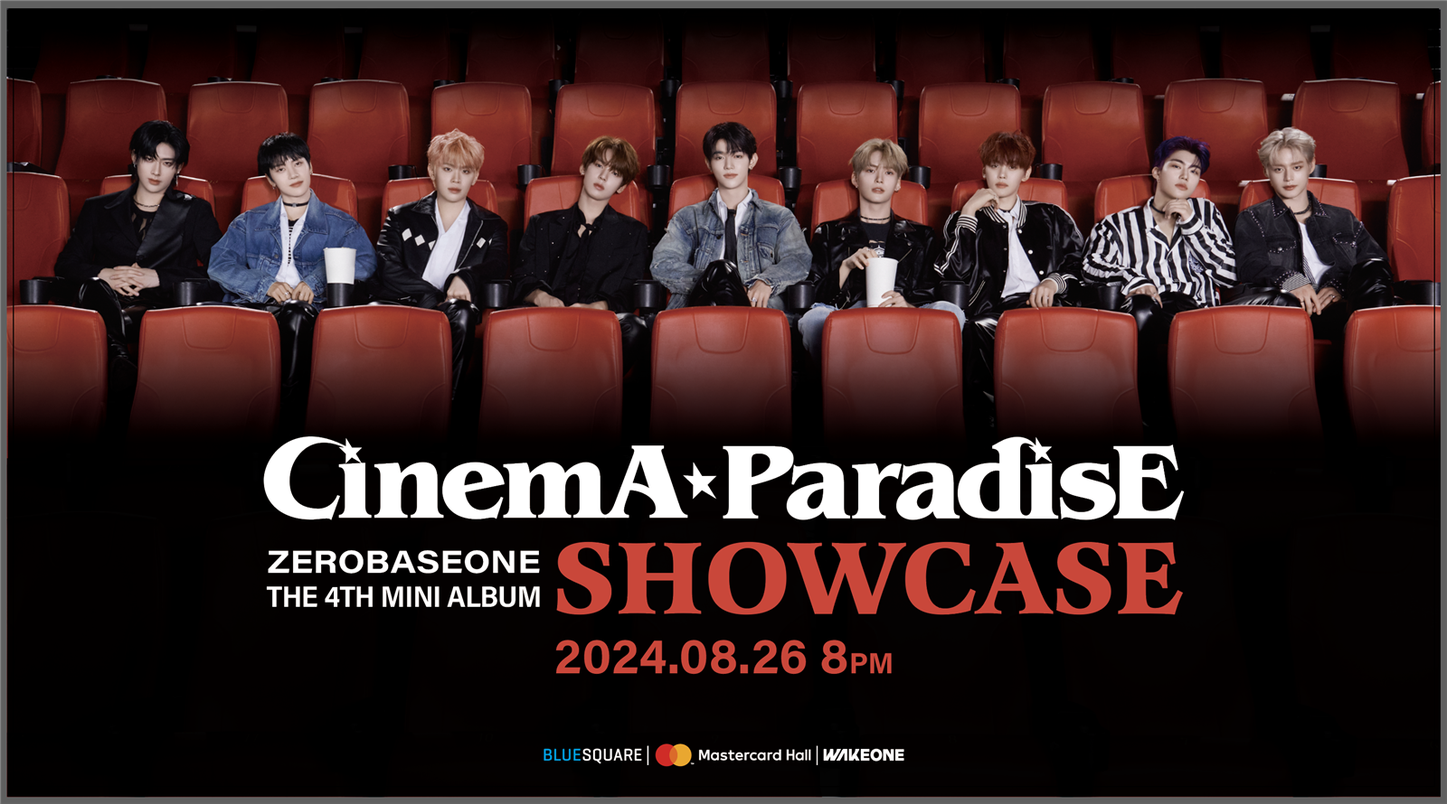
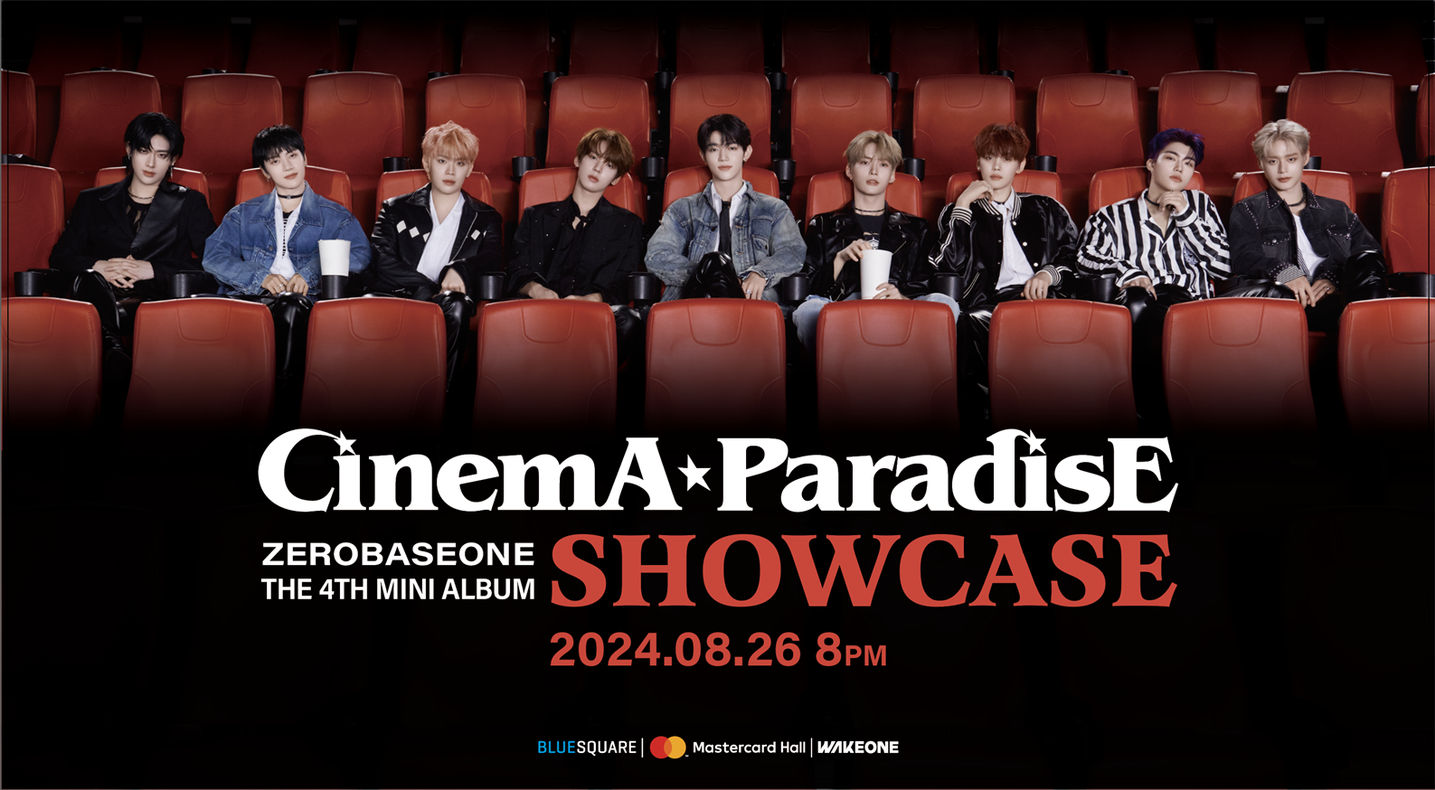
피드백 반영: 표지 교체, 현수막 테두리 제거, 전후비교 7 정합, 영상촬영 루프 플레이어
- 표지를 흰 로고 타입 PNG로 교체 (투명 배경, 어두운 히어로 위에 표시)
- ZB1 쇼케이스 현수막 2-4의 회색 테두리 크롭 제거
- Before/After 7: 보정후와 같은 영역으로 보정전 크롭 (NCC 정합, left 6%, top 0, 94%)
- Photo ZB1 영상촬영: 링크 제거, GIF 스타일 자동 루프 플레이어로 교체

diff --git a/js/manifest.js b/js/manifest.js
@@ -1,1 +1,1 @@
-const MANIFEST = [{"p":"표지(디자인).jpg","w":1600,"h":1178},{"p":"표지(포토).jpg","w":1600,"h":1178},{"p":"Photo/보정 전_후/1 보정전.jpg","w":1600,"h":1067},{"p":"Photo/보정 전_후/1 보정후.jpg","w":1600,"h":1067},{"p":"Photo/보정 전_후/10 보정전.jpg","w":1600,"h":900},{"p":"Photo/보정 전_후/10 보정후.jpg","w":1600,"h":900},{"p":"Photo/보정 전_후/11 보정전.jpg","w":1600,"h":900},{"p":"Photo/보정 전_후/11 보정후.jpg","w":1600,"h":900},{"p":"Photo/보정 전_후/2 보정전.jpg","w":1600,"h":1067},{"p":"Photo/보정 전_후/2 보정후.jpg","w":1600,"h":1067},{"p":"Photo/보정 전_후/3 보정전.jpg","w":1600,"h":1067},{"p":"Photo/보정 전_후/3 보정후.jpg","w":1600,"h":1067},{"p":"Photo/보정 전_후/4 보정전.jpg","w":1600,"h":1067},{"p":"Photo/보정 전_후/4 보정후.jpg","w":1600,"h":1067},{"p":"Photo/보정 전_후/5 보정전.jpg","w":1600,"h":1067},{"p":"Photo/보정 전_후/5 보정후.jpg","w":1600,"h":1067},{"p":"Photo/보정 전_후/6 보정전.jpg","w":1600,"h":1067},{"p":"Photo/보정 전_후/6 보정후.jpg","w":1600,"h":1067},{"p":"Photo/보정 전_후/7 보정전.jpg","w":1600,"h":2400},{"p":"Photo/보정 전_후/7 보정후.jpg","w":1600,"h":2400},{"p":"Photo/보정 전_후/8 보정전.jpg","w":1600,"h":2400},{"p":"Photo/보정 전_후/8 보정후.jpg","w":1600,"h":2400},{"p":"Photo/보정 전_후/9 보정전.jpg","w":1600,"h":1067},{"p":"Photo/보정 전_후/9 보정후.jpg","w":1600,"h":1067},{"p":"Photo/사진 보정/ZB1/IMG_2732.jpg","w":1279,"h":1599},{"p":"Photo/사진 보정/ZB1/IMG_2735.jpg","w":1280,"h":1600},{"p":"Photo/사진 보정/ZB1/IMG_2736.jpg","w":1279,"h":1599},{"p":"Photo/사진 보정/ZB1/KakaoTalk_Photo_2024-07-16-21-44-44-001.jpg","w":1080,"h":1440},{"p":"Photo/사진 보정/ZB1/KakaoTalk_Photo_2024-07-16-21-44-45-003.jpg","w":1080,"h":1440},{"p":"Photo/사진 보정/ZB1/KakaoTalk_Photo_2024-07-16-22-18-38-001.jpg","w":1600,"h":1200},{"p":"Photo/사진 보정/ZB1/KakaoTalk_Photo_2024-09-15-16-23-57-004.jpg","w":1280,"h":1707},{"p":"Photo/사진 보정/ZB1/KakaoTalk_Photo_2024-09-15-16-23-58-011.jpg","w":1280,"h":1707},{"p":"Photo/사진 보정/ZB1/KakaoTalk_Photo_2024-09-20-19-52-52-001.jpg","w":1600,"h":2133},{"p":"Photo/사진 보정/ZB1/KakaoTalk_Photo_2024-09-21-23-08-23-004.jpg","w":1080,"h":1440},{"p":"Photo/사진 보정/ZB1/KakaoTalk_Photo_2024-09-22-22-04-35-001.jpg","w":1058,"h":1411},{"p":"Photo/사진 보정/ZB1/KakaoTalk_Photo_2024-10-12-23-06-18-002.jpg","w":960,"h":1280},{"p":"Photo/사진 보정/ZB1/KakaoTalk_Photo_2025-04-19-01-57-40 001.jpg","w":1179,"h":1453},{"p":"Photo/사진 보정/ZB1/KakaoTalk_Photo_2025-04-19-01-57-41 002.jpg","w":1179,"h":1469},{"p":"Photo/사진 보정/ZB1/KakaoTalk_Photo_2025-04-19-01-57-41 003.jpg","w":1179,"h":1469},{"p":"Photo/사진 보정/ZB1/KakaoTalk_Photo_2025-04-19-01-57-41 004.jpg","w":1179,"h":1459},{"p":"Photo/사진 보정/ZB1/KakaoTalk_Photo_2025-04-19-01-57-43 013.jpg","w":1163,"h":1459},{"p":"Photo/사진 보정/ZB1/KakaoTalk_Photo_2025-04-19-01-57-43 014.jpg","w":1179,"h":1465},{"p":"Photo/사진 보정/ZB1/KakaoTalk_Photo_2025-04-19-01-57-43 015.jpg","w":1179,"h":1459},{"p":"Photo/사진 보정/시네마/[시네마] 모비딕 자켓1.jpg","w":1600,"h":1066},{"p":"Photo/사진 보정/시네마/[시네마] 모비딕 자켓2.jpg","w":1600,"h":1066},{"p":"Photo/사진 보정/시네마/[시네마] 모비딕 자켓3.jpg","w":1600,"h":1066},{"p":"Photo/사진 보정/시네마/[시네마] 모비딕 자켓4.jpg","w":1600,"h":1066},{"p":"Photo/사진 보정/시네마/[시네마] 모비딕 자켓5.jpg","w":1600,"h":1066},{"p":"Photo/사진 보정/시네마/[시네마] 청춘콘썰트1.jpg","w":1334,"h":2000},{"p":"Photo/사진 보정/시네마/[시네마] 청춘콘썰트2.jpg","w":1600,"h":1066},{"p":"Photo/사진 보정/시네마/[시네마] 청춘콘썰트3.jpg","w":1600,"h":1066},{"p":"Photo/사진 보정/시네마/[시네마] 청춘콘썰트4.jpg","w":1334,"h":2000},{"p":"Photo/사진 보정/시네마/[시네마] 청춘콘썰트5.jpg","w":1600,"h":1066},{"p":"Photo/사진 보정/시네마/[시네마] 청춘콘썰트6.jpg","w":1600,"h":1067},{"p":"Photo/촬영 및 보정/ZB1/GoodsoBad MV 비하인드 1.jpg","w":1179,"h":1510},{"p":"Photo/촬영 및 보정/ZB1/GoodsoBad MV 비하인드 2.jpg","w":1179,"h":1513},{"p":"Photo/촬영 및 보정/ZB1/GoodsoBad MV 비하인드 3.jpg","w":1179,"h":1482},{"p":"Photo/촬영 및 보정/ZB1/GoodsoBad MV 비하인드 4.jpg","w":1179,"h":1459},{"p":"Photo/촬영 및 보정/ZB1/마담피가로 화보 비하인드 1.jpg","w":1179,"h":1463},{"p":"Photo/촬영 및 보정/ZB1/마담피가로 화보 비하인드 2.jpg","w":1179,"h":1456},{"p":"Photo/촬영 및 보정/ZB1/마담피가로 화보 비하인드 3.jpg","w":1179,"h":1459},{"p":"Photo/촬영 및 보정/ZB1/마담피가로 화보 비하인드 4.jpg","w":1179,"h":1466},{"p":"Photo/촬영 및 보정/ZB1/영상 촬영/ZEROBASEONE 'GoodsoBad' MV 비하인드 1.jpg","w":1179,"h":1965},{"p":"Photo/촬영 및 보정/ZB1/영상 촬영/ZEROBASEONE 'GoodsoBad' MV 비하인드 2.jpg","w":1179,"h":1965},{"p":"Photo/촬영 및 보정/ZB1/영상 촬영/ZEROBASEONE 'GoodsoBad' MV 비하인드 3.jpg","w":1179,"h":1965},{"p":"Photo/촬영 및 보정/ZB1/영상 촬영/ZEROBASEONE 'GoodsoBad' MV 비하인드 4.jpg","w":1179,"h":1965},{"p":"Photo/촬영 및 보정/ZB1/영상 촬영/ZEROBASEONE 'GoodsoBad' MV 비하인드 5.jpg","w":1179,"h":1965},{"p":"Photo/촬영 및 보정/ZB1/영상 촬영/ZEROBASEONE 'GoodsoBad' MV 비하인드 6.jpg","w":1179,"h":1965},{"p":"Photo/촬영 및 보정/ZB1/영상 촬영/ZEROBASEONE 'GoodsoBad' MV 비하인드 7.jpg","w":1179,"h":2096},{"p":"Photo/촬영 및 보정/ZB1/영상 촬영/ZEROBASEONE 'GoodsoBad' MV 비하인드 8.jpg","w":1179,"h":2096},{"p":"Photo/촬영 및 보정/ZB1/영상 촬영/ZEROBASEONE 'GoodsoBad' MV 비하인드 9.jpg","w":1179,"h":2096},{"p":"Photo/촬영 및 보정/ZB1/영상 촬영/ZEROBASEONE 'GoodsoBad' MV 비하인드 10.jpg","w":1179,"h":2096},{"p":"Photo/촬영 및 보정/ZB1/영상 촬영/ZEROBASEONE 'GoodsoBad' MV 비하인드 11.jpg","w":1179,"h":2096},{"p":"Photo/촬영 및 보정/ZB1/영상 촬영/ZEROBASEONE 'GoodsoBad' MV 비하인드 12.jpg","w":1179,"h":2096},{"p":"Photo/촬영 및 보정/ZB1/영상 촬영/ZEROBASEONE 'GoodsoBad' MV 비하인드 13.jpg","w":1179,"h":2096},{"p":"Photo/촬영 및 보정/유채훈-일몬도비하인드/무대 DSC05353 셀렉 보정본 copy.jpg","w":1600,"h":1066},{"p":"Photo/촬영 및 보정/유채훈-일몬도비하인드/무대 DSC05935 셀렉 보정본 copy.jpg","w":1600,"h":1066},{"p":"Photo/촬영 및 보정/유채훈-일몬도비하인드/무대 DSC06022 셀렉 보정본 copy.jpg","w":1600,"h":1066},{"p":"Photo/촬영 및 보정/유채훈-일몬도비하인드/무대 DSC06262 셀렉 보정본 copy.jpg","w":1334,"h":2000},{"p":"Photo/촬영 및 보정/유채훈-일몬도비하인드/무대 DSC06371 셀렉 보정본 copy.jpg","w":1600,"h":1066},{"p":"Photo/촬영 및 보정/유채훈-일몬도비하인드/무대 DSC06573 셀렉 보정본 copy.jpg","w":1600,"h":1066},{"p":"Photo/촬영 및 보정/유채훈-일몬도비하인드/무대 DSC06782 셀렉 보정본 copy.jpg","w":1600,"h":1066},{"p":"Photo/촬영 및 보정/유채훈-일몬도비하인드/무대 DSC06799 셀렉 보정본 copy.jpg","w":1600,"h":1066},{"p":"Photo/촬영 및 보정/유채훈-일몬도비하인드/무대 DSC07052 셀렉 보정본 copy.jpg","w":1600,"h":1066},{"p":"Photo/촬영 및 보정/유채훈-일몬도비하인드/무대 DSC07096 셀렉 보정본 copy.jpg","w":1600,"h":1066},{"p":"Photo/촬영 및 보정/유채훈-일몬도비하인드/무대 DSC07332 셀렉 보정본 copy.jpg","w":1600,"h":1066},{"p":"Photo/촬영 및 보정/유채훈-일몬도비하인드/무대 DSC07368 셀렉 보정본 copy.jpg","w":1333,"h":2000},{"p":"Photo/촬영 및 보정/유채훈-포디움콘서트/DSC01893-셀렉-보정본.jpg","w":1600,"h":1067},{"p":"Photo/촬영 및 보정/유채훈-포디움콘서트/DSC02064-셀렉-보정본.jpg","w":1600,"h":1067},{"p":"Photo/촬영 및 보정/유채훈-포디움콘서트/DSC02195-셀렉-보정본.jpg","w":1600,"h":1067},{"p":"Photo/촬영 및 보정/유채훈-포디움콘서트/DSC02247-셀렉-보정본.jpg","w":1600,"h":1067},{"p":"Photo/촬영 및 보정/유채훈-포디움콘서트/DSC02271-셀렉-보정본.jpg","w":1600,"h":1067},{"p":"Photo/촬영 및 보정/유채훈-포디움콘서트/DSC02328-셀렉-보정본.jpg","w":1600,"h":1067},{"p":"Photo/촬영 및 보정/유채훈-포디움콘서트/DSC02492-셀렉-보정본.jpg","w":1600,"h":1067},{"p":"Photo/촬영 및 보정/유채훈-포디움콘서트/DSC04307-셀렉-보정본.jpg","w":1600,"h":1067},{"p":"디자인/Gaho/다이아몬드/1. 로고 티저.jpg","w":1600,"h":533},{"p":"디자인/Gaho/다이아몬드/2. 자켓티저 1-1.jpg","w":1600,"h":2000},{"p":"디자인/Gaho/다이아몬드/2. 자켓티저 1-2.jpg","w":1600,"h":2000},{"p":"디자인/Gaho/다이아몬드/2. 자켓티저 1-3.jpg","w":1600,"h":2000},{"p":"디자인/Gaho/다이아몬드/2. 자켓티저 2-1.jpg","w":1600,"h":2000},{"p":"디자인/Gaho/다이아몬드/2. 자켓티저 2-2.jpg","w":1600,"h":2000},{"p":"디자인/Gaho/다이아몬드/2. 자켓티저 2-3.jpg","w":1600,"h":2000},{"p":"디자인/Gaho/다이아몬드/2. 자켓티저 3-1.jpg","w":1600,"h":2000},{"p":"디자인/Gaho/다이아몬드/2. 자켓티저 3-2.jpg","w":1600,"h":2000},{"p":"디자인/Gaho/다이아몬드/MV-스틸컷-국내-1.jpg","w":1600,"h":1200},{"p":"디자인/Gaho/다이아몬드/MV-스틸컷-국내-2.jpg","w":1600,"h":1200},{"p":"디자인/Gaho/다이아몬드/MV-스틸컷-국내-3.jpg","w":1500,"h":2000},{"p":"디자인/Gaho/다이아몬드/SNS-1.jpg","w":1600,"h":1600},{"p":"디자인/Gaho/다이아몬드/SNS-2.jpg","w":1600,"h":1600},{"p":"디자인/Gaho/다이아몬드/SNS-3.jpg","w":1600,"h":1600},{"p":"디자인/Gaho/다이아몬드/SNS-4.jpg","w":1600,"h":1600},{"p":"디자인/Gaho/다이아몬드/SNS-5.jpg","w":1600,"h":1600},{"p":"디자인/Gaho/다이아몬드/[가호] Diamond 상세이미지 (1000X4498).jpg","w":1000,"h":4498},{"p":"디자인/Gaho/다이아몬드/리릭포스터.jpg","w":1500,"h":2000},{"p":"디자인/Gaho/다이아몬드/앨범커버.jpg","w":680,"h":680},{"p":"디자인/Gaho/다이아몬드/트랙리스트22.jpg","w":1600,"h":1600},{"p":"디자인/Gaho/다이아몬드/폴라포이드1.jpg","w":1500,"h":1500},{"p":"디자인/Gaho/다이아몬드/폴라포이드2.jpg","w":1500,"h":1500},{"p":"디자인/Gaho/다이아몬드/폴라포이드3.jpg","w":1500,"h":1500},{"p":"디자인/Gaho/다이아몬드/폴라포이드4.jpg","w":1500,"h":1500},{"p":"디자인/Gaho/다이아몬드/폴라포이드5.jpg","w":1500,"h":1500},{"p":"디자인/Gaho/온리유/1_02_1.jpg","w":1501,"h":2001},{"p":"디자인/Gaho/온리유/2_02_1.jpg","w":1501,"h":2001},{"p":"디자인/Gaho/온리유/3_02_1.jpg","w":1501,"h":2001},{"p":"디자인/Gaho/온리유/3_02_2.jpg","w":1501,"h":2001},{"p":"디자인/Gaho/온리유/Lyrics-포스터-가로2.jpg","w":1600,"h":1200},{"p":"디자인/Gaho/온리유/MV-스틸컷-커버1-1.jpg","w":1501,"h":2001},{"p":"디자인/Gaho/온리유/MV-스틸컷-커버1-2.jpg","w":1500,"h":2001},{"p":"디자인/Gaho/온리유/MV-스틸컷-커버1-3.jpg","w":1501,"h":2000},{"p":"디자인/Gaho/온리유/MV-스틸컷-커버1-4.jpg","w":1501,"h":2000},{"p":"디자인/Gaho/온리유/MV-스틸컷-커버2-1.jpg","w":1600,"h":1200},{"p":"디자인/Gaho/온리유/MV-스틸컷-커버2-2.jpg","w":1500,"h":2000},{"p":"디자인/Gaho/온리유/MV-스틸컷-커버2-3.jpg","w":1501,"h":2000},{"p":"디자인/Gaho/온리유/MV-스틸컷-커버2-4.jpg","w":1501,"h":2000},{"p":"디자인/Gaho/온리유/MV-스틸컷-커버3-2.jpg","w":1500,"h":2000},{"p":"디자인/Gaho/온리유/MV-스틸컷-커버3-3.jpg","w":1500,"h":2000},{"p":"디자인/Gaho/온리유/MV-스틸컷-커버3-4.jpg","w":1500,"h":2000},{"p":"디자인/Gaho/온리유/MV-스틸컷-커버3-5.jpg","w":1500,"h":2000},{"p":"디자인/Gaho/온리유/[가호] Only You 온라인커버(1500X1500).jpg","w":1500,"h":1500},{"p":"디자인/Gaho/다이아몬드/마플샵 굿즈/다이아몬드 블랙반팔티.jpg","w":1200,"h":1200},{"p":"디자인/Gaho/다이아몬드/마플샵 굿즈/다이아몬드 스택컵.jpg","w":1200,"h":1200},{"p":"디자인/Gaho/다이아몬드/마플샵 굿즈/다이아몬드 키링.jpg","w":1200,"h":1200},{"p":"디자인/Gaho/다이아몬드/마플샵 굿즈/다이아몬드 텀블러.jpg","w":1200,"h":1200},{"p":"디자인/Gaho/다이아몬드/마플샵 굿즈/다이아몬드 패브릭포스터.jpg","w":1200,"h":1200},{"p":"디자인/Gaho/다이아몬드/마플샵 굿즈/다이아몬드 핀버튼.jpg","w":1200,"h":1200},{"p":"디자인/Gaho/다이아몬드/마플샵 굿즈/다이아몬드 하얀반팔티.jpg","w":1200,"h":1200},{"p":"디자인/Gaho/온리유/마플샵 굿즈/온리유 반팔.png","w":1289,"h":1286},{"p":"디자인/Gaho/온리유/마플샵 굿즈/온리유 키링.png","w":1284,"h":1284},{"p":"디자인/Gaho/온리유/마플샵 굿즈/온리유 패브릭.png","w":1284,"h":1289},{"p":"디자인/Gaho/온리유/마플샵 굿즈/온리유 핀버튼.png","w":1286,"h":1289},{"p":"디자인/Gaho/온리유/마플샵 굿즈/온리유 후드티.png","w":1284,"h":1288},{"p":"디자인/ZB1/GoodsoBad 바이럴 이미지1.jpg","w":1080,"h":1920},{"p":"디자인/ZB1/GoodsoBad 바이럴 이미지2.jpg","w":1080,"h":1920},{"p":"디자인/ZB1/GoodsoBad 바이럴 이미지3.png","w":640,"h":100},{"p":"디자인/ZB1/GoodsoBad 바이럴 이미지4.png","w":300,"h":250},{"p":"디자인/ZB1/GoodsoBad 바이럴 이미지5.png","w":1029,"h":258},{"p":"디자인/ZB1/GoodsoBad 바이럴 이미지6.png","w":1200,"h":627},{"p":"디자인/ZB1/GoodsoBad 바이럴 이미지7.png","w":1200,"h":627},{"p":"디자인/ZB1/GoodsoBad 바이럴 이미지8.png","w":1200,"h":627},{"p":"디자인/ZB1/GoodsoBad 쇼케이스 현수막(현장사진)1.jpg","w":1440,"h":1081},{"p":"디자인/ZB1/GoodsoBad 쇼케이스 현수막(현장사진)2.jpg","w":1080,"h":1440},{"p":"디자인/ZB1/GoodsoBad 쇼케이스 현수막(현장사진)3.jpg","w":1080,"h":1440},{"p":"디자인/ZB1/GoodsoBad 쇼케이스 현수막(현장사진)4.jpg","w":1080,"h":1440},{"p":"디자인/ZB1/GoodsoBad 쇼케이스 현수막1.png","w":1492,"h":1973},{"p":"디자인/ZB1/GoodsoBad 쇼케이스 현수막2.png","w":1600,"h":256},{"p":"디자인/ZB1/GoodsoBad 쇼케이스 현수막3.png","w":1600,"h":890},{"p":"디자인/ZB1/GoodsoBad 쇼케이스 현수막4.png","w":731,"h":1916},{"p":"디자인/ZB1/GoodsoBad뮤비조회수축전(20M).jpg","w":1440,"h":1920},{"p":"디자인/ZB1/GoodsoBad뮤비조회수축전(40M).jpg","w":1440,"h":1920},{"p":"디자인/ZB1/GoodsoBad숏터뷰썸네일-건욱.jpg","w":1280,"h":720},{"p":"디자인/ZB1/GoodsoBad숏터뷰썸네일-규빈.jpg","w":1280,"h":720},{"p":"디자인/ZB1/GoodsoBad숏터뷰썸네일-리키.jpg","w":1280,"h":720},{"p":"디자인/ZB1/GoodsoBad숏터뷰썸네일-매튜.jpg","w":1280,"h":720},{"p":"디자인/ZB1/GoodsoBad숏터뷰썸네일-유지태.jpg","w":1280,"h":720},{"p":"디자인/ZB1/GoodsoBad숏터뷰썸네일-유진.jpg","w":1280,"h":720},{"p":"디자인/ZB1/GoodsoBad숏터뷰썸네일-장하오.jpg","w":1280,"h":720},{"p":"디자인/ZB1/GoodsoBad숏터뷰썸네일-지웅.jpg","w":1280,"h":720},{"p":"디자인/ZB1/GoodsoBad숏터뷰썸네일-태래.jpg","w":1280,"h":720},{"p":"디자인/ZB1/GoodsoBad숏터뷰썸네일-한빈.jpg","w":1280,"h":720},{"p":"디자인/ZB1/GoodsoBad활동마무리(웨이보)매튜.jpg","w":1080,"h":1356},{"p":"디자인/ZB1/GoodsoBad활동마무리(웨이보)지웅.jpg","w":1080,"h":1356},{"p":"디자인/ZB1/GoodsoBad활동마무리(웨이보)하오.jpg","w":1080,"h":1356},{"p":"디자인/ZB1/GoodsoBad활동마무리(웨이보)한빈.jpg","w":1080,"h":1356},{"p":"디자인/ZB1/ZB1 미니 4집 팬쇼케이스 라이브 감사 페이지.jpg","w":1600,"h":900},{"p":"디자인/ZB1/ZB1 미니 4집 팬쇼케이스 라이브 대기 페이지.jpg","w":1600,"h":900},{"p":"디자인/ZB1/ZB1 미니 4집 팬쇼케이스 라이브 썸네일.jpg","w":1600,"h":900},{"p":"디자인/ZB1/ZB1-미니-4집-팬쇼케이스-라이브-썸네일-스토리용.jpg","w":1080,"h":1920},{"p":"디자인/ZB1/인스타필터-거니니.png","w":1080,"h":1920},{"p":"디자인/ZB1/인스타필터-태니니.png","w":1080,"h":1920},{"p":"디자인/ZB1/인스타필터-튜니니.png","w":1080,"h":1920},{"p":"디자인/ZB1/인스타필터-하니니(촬영용).jpg","w":1179,"h":2096},{"p":"디자인/ZB1/인스타필터-하니니.png","w":1080,"h":1920},{"p":"디자인/ZB1/지비티빙 롯데월드 자컨 포스터.jpg","w":1080,"h":1920},{"p":"디자인/ZB1/콘서트 SNS 공지1.png","w":1080,"h":1920},{"p":"디자인/ZB1/콘서트 SNS 공지2.png","w":1080,"h":1920},{"p":"디자인/ZB1/콘서트 SNS 공지3.png","w":1080,"h":1920},{"p":"디자인/ZB1/콘서트 SNS 공지4.png","w":1080,"h":1920},{"p":"디자인/기탁/비욘드 콘서트 디자인/Beyond-포스터.jpg","w":1191,"h":1684},{"p":"디자인/기탁/비욘드 콘서트 디자인/LED-송출-코너-안내-이미지-(2816X1024px)-금쪽상담소.jpg","w":1600,"h":582},{"p":"디자인/기탁/비욘드 콘서트 디자인/LED-송출-코너-안내-이미지-(2816X1024px)-기탁퀴즈.jpg","w":1600,"h":582},{"p":"디자인/기탁/비욘드 콘서트 디자인/LED-송출-코너-안내-이미지-(2816X1024px)-딸기마켓.jpg","w":1600,"h":582},{"p":"디자인/기탁/비욘드 콘서트 디자인/LED-송출-코너-안내-이미지-(2816X1024px)-포스터.jpg","w":1600,"h":582},{"p":"디자인/기탁/비욘드 콘서트 디자인/상세이미지(960X5092).jpg","w":960,"h":5128},{"p":"디자인/기탁/비하인드 SNS 이미지/시소 뮤비 비하인드 포스트 이미지 (정방형).jpg","w":1350,"h":1350},{"p":"디자인/기탁/비하인드 SNS 이미지/시소 자켓 비하인드 포스트 이미지 (스토리용).jpg","w":1080,"h":1920},{"p":"디자인/기탁/비하인드 SNS 이미지/썸머 뮤비 포스트-이미지-(정방형).jpg","w":1350,"h":1350},{"p":"디자인/기탁/비하인드 SNS 이미지/썸머 자켓 포스트-이미지-(스토리용).jpg","w":1080,"h":1920},{"p":"디자인/디어유버블/img_bubble_popup_cnema_startsnow.jpg","w":1200,"h":2000},{"p":"디자인/디어유버블/img_bubble_popup_gaho,youchaehoon_startsnow.jpg","w":1200,"h":2000},{"p":"디자인/디어유버블/img_bubble_sns_youchaehoon_startsnow.jpg","w":975,"h":975},{"p":"디자인/라포엠/라포엠100만뷰축전이미지1.png","w":1500,"h":1500},{"p":"디자인/라포엠/라포엠100만뷰축전이미지2.png","w":1500,"h":1500},{"p":"디자인/유채훈/유음세 credit.png","w":1600,"h":3504},{"p":"디자인/유채훈/유음세 썸네일.jpg","w":1600,"h":900},{"p":"디자인/유채훈/비하인드 SNS 이미지/리필콘서트 포스트 이미지 (정방형).jpg","w":1350,"h":1350},{"p":"디자인/유채훈/비하인드 SNS 이미지/유음세 포스트-이미지-(정방형).jpg","w":1350,"h":1350},{"p":"디자인/유채훈/비하인드 SNS 이미지/일몬도비하인드 포스트-이미지-(스토리용).jpg","w":1080,"h":1920},{"p":"디자인/유채훈/비하인드 SNS 이미지/콘텐츠비하인드 포스트-이미지-(스토리용).jpg","w":1080,"h":1920},{"p":"디자인/임시완-팬콘/메인-포스터_상세이미지-(국문)1.jpg","w":750,"h":1578},{"p":"디자인/임시완-팬콘/메인-포스터_상세이미지-(국문)2.jpg","w":750,"h":5114},{"p":"디자인/임시완-팬콘/현수막 시안01.jpg","w":1600,"h":220},{"p":"디자인/정엽x유채훈 ReFeel 콘서트/상세페이지1.jpg","w":750,"h":4730},{"p":"디자인/정엽x유채훈 ReFeel 콘서트/상세페이지2.jpg","w":750,"h":1350},{"p":"디자인/정엽x유채훈 ReFeel 콘서트/포스터.jpg","w":1600,"h":2263},{"p":"디자인/정엽x유채훈 ReFeel 콘서트/현수막.jpg","w":1600,"h":222},{"p":"영상 썸네일/EP.1.jpg","w":1600,"h":900},{"p":"영상 썸네일/Let-It-Snow-썸네일.png","w":1600,"h":900},{"p":"영상 썸네일/[기탁] 2022 크리스마스 캐롤 커버 썸네일.png","w":1600,"h":900},{"p":"디자인/Gaho/온리유/Only You 로고.png","w":900,"h":545},{"p":"디자인/ZB1/GoodsoBad숏터뷰로고디자인.png","w":1600,"h":363},{"p":"디자인/ZB1/지비티빙-롯데월드-자컨-포스터-로고-디자인.png","w":1600,"h":655}];
+const MANIFEST = [{"p":"표지(디자인).jpg","w":1600,"h":1178},{"p":"표지(포토).jpg","w":1600,"h":1178},{"p":"Photo/보정 전_후/1 보정전.jpg","w":1600,"h":1067},{"p":"Photo/보정 전_후/1 보정후.jpg","w":1600,"h":1067},{"p":"Photo/보정 전_후/10 보정전.jpg","w":1600,"h":900},{"p":"Photo/보정 전_후/10 보정후.jpg","w":1600,"h":900},{"p":"Photo/보정 전_후/11 보정전.jpg","w":1600,"h":900},{"p":"Photo/보정 전_후/11 보정후.jpg","w":1600,"h":900},{"p":"Photo/보정 전_후/2 보정전.jpg","w":1600,"h":1067},{"p":"Photo/보정 전_후/2 보정후.jpg","w":1600,"h":1067},{"p":"Photo/보정 전_후/3 보정전.jpg","w":1600,"h":1067},{"p":"Photo/보정 전_후/3 보정후.jpg","w":1600,"h":1067},{"p":"Photo/보정 전_후/4 보정전.jpg","w":1600,"h":1067},{"p":"Photo/보정 전_후/4 보정후.jpg","w":1600,"h":1067},{"p":"Photo/보정 전_후/5 보정전.jpg","w":1600,"h":1067},{"p":"Photo/보정 전_후/5 보정후.jpg","w":1600,"h":1067},{"p":"Photo/보정 전_후/6 보정전.jpg","w":1600,"h":1067},{"p":"Photo/보정 전_후/6 보정후.jpg","w":1600,"h":1067},{"p":"Photo/보정 전_후/7 보정전.jpg","w":1503,"h":2257},{"p":"Photo/보정 전_후/7 보정후.jpg","w":1600,"h":2400},{"p":"Photo/보정 전_후/8 보정전.jpg","w":1600,"h":2400},{"p":"Photo/보정 전_후/8 보정후.jpg","w":1600,"h":2400},{"p":"Photo/보정 전_후/9 보정전.jpg","w":1600,"h":1067},{"p":"Photo/보정 전_후/9 보정후.jpg","w":1600,"h":1067},{"p":"Photo/사진 보정/ZB1/IMG_2732.jpg","w":1279,"h":1599},{"p":"Photo/사진 보정/ZB1/IMG_2735.jpg","w":1280,"h":1600},{"p":"Photo/사진 보정/ZB1/IMG_2736.jpg","w":1279,"h":1599},{"p":"Photo/사진 보정/ZB1/KakaoTalk_Photo_2024-07-16-21-44-44-001.jpg","w":1080,"h":1440},{"p":"Photo/사진 보정/ZB1/KakaoTalk_Photo_2024-07-16-21-44-45-003.jpg","w":1080,"h":1440},{"p":"Photo/사진 보정/ZB1/KakaoTalk_Photo_2024-07-16-22-18-38-001.jpg","w":1600,"h":1200},{"p":"Photo/사진 보정/ZB1/KakaoTalk_Photo_2024-09-15-16-23-57-004.jpg","w":1280,"h":1707},{"p":"Photo/사진 보정/ZB1/KakaoTalk_Photo_2024-09-15-16-23-58-011.jpg","w":1280,"h":1707},{"p":"Photo/사진 보정/ZB1/KakaoTalk_Photo_2024-09-20-19-52-52-001.jpg","w":1600,"h":2133},{"p":"Photo/사진 보정/ZB1/KakaoTalk_Photo_2024-09-21-23-08-23-004.jpg","w":1080,"h":1440},{"p":"Photo/사진 보정/ZB1/KakaoTalk_Photo_2024-09-22-22-04-35-001.jpg","w":1058,"h":1411},{"p":"Photo/사진 보정/ZB1/KakaoTalk_Photo_2024-10-12-23-06-18-002.jpg","w":960,"h":1280},{"p":"Photo/사진 보정/ZB1/KakaoTalk_Photo_2025-04-19-01-57-40 001.jpg","w":1179,"h":1453},{"p":"Photo/사진 보정/ZB1/KakaoTalk_Photo_2025-04-19-01-57-41 002.jpg","w":1179,"h":1469},{"p":"Photo/사진 보정/ZB1/KakaoTalk_Photo_2025-04-19-01-57-41 003.jpg","w":1179,"h":1469},{"p":"Photo/사진 보정/ZB1/KakaoTalk_Photo_2025-04-19-01-57-41 004.jpg","w":1179,"h":1459},{"p":"Photo/사진 보정/ZB1/KakaoTalk_Photo_2025-04-19-01-57-43 013.jpg","w":1163,"h":1459},{"p":"Photo/사진 보정/ZB1/KakaoTalk_Photo_2025-04-19-01-57-43 014.jpg","w":1179,"h":1465},{"p":"Photo/사진 보정/ZB1/KakaoTalk_Photo_2025-04-19-01-57-43 015.jpg","w":1179,"h":1459},{"p":"Photo/사진 보정/시네마/[시네마] 모비딕 자켓1.jpg","w":1600,"h":1066},{"p":"Photo/사진 보정/시네마/[시네마] 모비딕 자켓2.jpg","w":1600,"h":1066},{"p":"Photo/사진 보정/시네마/[시네마] 모비딕 자켓3.jpg","w":1600,"h":1066},{"p":"Photo/사진 보정/시네마/[시네마] 모비딕 자켓4.jpg","w":1600,"h":1066},{"p":"Photo/사진 보정/시네마/[시네마] 모비딕 자켓5.jpg","w":1600,"h":1066},{"p":"Photo/사진 보정/시네마/[시네마] 청춘콘썰트1.jpg","w":1334,"h":2000},{"p":"Photo/사진 보정/시네마/[시네마] 청춘콘썰트2.jpg","w":1600,"h":1066},{"p":"Photo/사진 보정/시네마/[시네마] 청춘콘썰트3.jpg","w":1600,"h":1066},{"p":"Photo/사진 보정/시네마/[시네마] 청춘콘썰트4.jpg","w":1334,"h":2000},{"p":"Photo/사진 보정/시네마/[시네마] 청춘콘썰트5.jpg","w":1600,"h":1066},{"p":"Photo/사진 보정/시네마/[시네마] 청춘콘썰트6.jpg","w":1600,"h":1067},{"p":"Photo/촬영 및 보정/ZB1/GoodsoBad MV 비하인드 1.jpg","w":1179,"h":1510},{"p":"Photo/촬영 및 보정/ZB1/GoodsoBad MV 비하인드 2.jpg","w":1179,"h":1513},{"p":"Photo/촬영 및 보정/ZB1/GoodsoBad MV 비하인드 3.jpg","w":1179,"h":1482},{"p":"Photo/촬영 및 보정/ZB1/GoodsoBad MV 비하인드 4.jpg","w":1179,"h":1459},{"p":"Photo/촬영 및 보정/ZB1/마담피가로 화보 비하인드 1.jpg","w":1179,"h":1463},{"p":"Photo/촬영 및 보정/ZB1/마담피가로 화보 비하인드 2.jpg","w":1179,"h":1456},{"p":"Photo/촬영 및 보정/ZB1/마담피가로 화보 비하인드 3.jpg","w":1179,"h":1459},{"p":"Photo/촬영 및 보정/ZB1/마담피가로 화보 비하인드 4.jpg","w":1179,"h":1466},{"p":"Photo/촬영 및 보정/ZB1/영상 촬영/ZEROBASEONE 'GoodsoBad' MV 비하인드 1.jpg","w":1179,"h":1965},{"p":"Photo/촬영 및 보정/ZB1/영상 촬영/ZEROBASEONE 'GoodsoBad' MV 비하인드 2.jpg","w":1179,"h":1965},{"p":"Photo/촬영 및 보정/ZB1/영상 촬영/ZEROBASEONE 'GoodsoBad' MV 비하인드 3.jpg","w":1179,"h":1965},{"p":"Photo/촬영 및 보정/ZB1/영상 촬영/ZEROBASEONE 'GoodsoBad' MV 비하인드 4.jpg","w":1179,"h":1965},{"p":"Photo/촬영 및 보정/ZB1/영상 촬영/ZEROBASEONE 'GoodsoBad' MV 비하인드 5.jpg","w":1179,"h":1965},{"p":"Photo/촬영 및 보정/ZB1/영상 촬영/ZEROBASEONE 'GoodsoBad' MV 비하인드 6.jpg","w":1179,"h":1965},{"p":"Photo/촬영 및 보정/ZB1/영상 촬영/ZEROBASEONE 'GoodsoBad' MV 비하인드 7.jpg","w":1179,"h":2096},{"p":"Photo/촬영 및 보정/ZB1/영상 촬영/ZEROBASEONE 'GoodsoBad' MV 비하인드 8.jpg","w":1179,"h":2096},{"p":"Photo/촬영 및 보정/ZB1/영상 촬영/ZEROBASEONE 'GoodsoBad' MV 비하인드 9.jpg","w":1179,"h":2096},{"p":"Photo/촬영 및 보정/ZB1/영상 촬영/ZEROBASEONE 'GoodsoBad' MV 비하인드 10.jpg","w":1179,"h":2096},{"p":"Photo/촬영 및 보정/ZB1/영상 촬영/ZEROBASEONE 'GoodsoBad' MV 비하인드 11.jpg","w":1179,"h":2096},{"p":"Photo/촬영 및 보정/ZB1/영상 촬영/ZEROBASEONE 'GoodsoBad' MV 비하인드 12.jpg","w":1179,"h":2096},{"p":"Photo/촬영 및 보정/ZB1/영상 촬영/ZEROBASEONE 'GoodsoBad' MV 비하인드 13.jpg","w":1179,"h":2096},{"p":"Photo/촬영 및 보정/유채훈-일몬도비하인드/무대 DSC05353 셀렉 보정본 copy.jpg","w":1600,"h":1066},{"p":"Photo/촬영 및 보정/유채훈-일몬도비하인드/무대 DSC05935 셀렉 보정본 copy.jpg","w":1600,"h":1066},{"p":"Photo/촬영 및 보정/유채훈-일몬도비하인드/무대 DSC06022 셀렉 보정본 copy.jpg","w":1600,"h":1066},{"p":"Photo/촬영 및 보정/유채훈-일몬도비하인드/무대 DSC06262 셀렉 보정본 copy.jpg","w":1334,"h":2000},{"p":"Photo/촬영 및 보정/유채훈-일몬도비하인드/무대 DSC06371 셀렉 보정본 copy.jpg","w":1600,"h":1066},{"p":"Photo/촬영 및 보정/유채훈-일몬도비하인드/무대 DSC06573 셀렉 보정본 copy.jpg","w":1600,"h":1066},{"p":"Photo/촬영 및 보정/유채훈-일몬도비하인드/무대 DSC06782 셀렉 보정본 copy.jpg","w":1600,"h":1066},{"p":"Photo/촬영 및 보정/유채훈-일몬도비하인드/무대 DSC06799 셀렉 보정본 copy.jpg","w":1600,"h":1066},{"p":"Photo/촬영 및 보정/유채훈-일몬도비하인드/무대 DSC07052 셀렉 보정본 copy.jpg","w":1600,"h":1066},{"p":"Photo/촬영 및 보정/유채훈-일몬도비하인드/무대 DSC07096 셀렉 보정본 copy.jpg","w":1600,"h":1066},{"p":"Photo/촬영 및 보정/유채훈-일몬도비하인드/무대 DSC07332 셀렉 보정본 copy.jpg","w":1600,"h":1066},{"p":"Photo/촬영 및 보정/유채훈-일몬도비하인드/무대 DSC07368 셀렉 보정본 copy.jpg","w":1333,"h":2000},{"p":"Photo/촬영 및 보정/유채훈-포디움콘서트/DSC01893-셀렉-보정본.jpg","w":1600,"h":1067},{"p":"Photo/촬영 및 보정/유채훈-포디움콘서트/DSC02064-셀렉-보정본.jpg","w":1600,"h":1067},{"p":"Photo/촬영 및 보정/유채훈-포디움콘서트/DSC02195-셀렉-보정본.jpg","w":1600,"h":1067},{"p":"Photo/촬영 및 보정/유채훈-포디움콘서트/DSC02247-셀렉-보정본.jpg","w":1600,"h":1067},{"p":"Photo/촬영 및 보정/유채훈-포디움콘서트/DSC02271-셀렉-보정본.jpg","w":1600,"h":1067},{"p":"Photo/촬영 및 보정/유채훈-포디움콘서트/DSC02328-셀렉-보정본.jpg","w":1600,"h":1067},{"p":"Photo/촬영 및 보정/유채훈-포디움콘서트/DSC02492-셀렉-보정본.jpg","w":1600,"h":1067},{"p":"Photo/촬영 및 보정/유채훈-포디움콘서트/DSC04307-셀렉-보정본.jpg","w":1600,"h":1067},{"p":"디자인/Gaho/다이아몬드/1. 로고 티저.jpg","w":1600,"h":533},{"p":"디자인/Gaho/다이아몬드/2. 자켓티저 1-1.jpg","w":1600,"h":2000},{"p":"디자인/Gaho/다이아몬드/2. 자켓티저 1-2.jpg","w":1600,"h":2000},{"p":"디자인/Gaho/다이아몬드/2. 자켓티저 1-3.jpg","w":1600,"h":2000},{"p":"디자인/Gaho/다이아몬드/2. 자켓티저 2-1.jpg","w":1600,"h":2000},{"p":"디자인/Gaho/다이아몬드/2. 자켓티저 2-2.jpg","w":1600,"h":2000},{"p":"디자인/Gaho/다이아몬드/2. 자켓티저 2-3.jpg","w":1600,"h":2000},{"p":"디자인/Gaho/다이아몬드/2. 자켓티저 3-1.jpg","w":1600,"h":2000},{"p":"디자인/Gaho/다이아몬드/2. 자켓티저 3-2.jpg","w":1600,"h":2000},{"p":"디자인/Gaho/다이아몬드/MV-스틸컷-국내-1.jpg","w":1600,"h":1200},{"p":"디자인/Gaho/다이아몬드/MV-스틸컷-국내-2.jpg","w":1600,"h":1200},{"p":"디자인/Gaho/다이아몬드/MV-스틸컷-국내-3.jpg","w":1500,"h":2000},{"p":"디자인/Gaho/다이아몬드/SNS-1.jpg","w":1600,"h":1600},{"p":"디자인/Gaho/다이아몬드/SNS-2.jpg","w":1600,"h":1600},{"p":"디자인/Gaho/다이아몬드/SNS-3.jpg","w":1600,"h":1600},{"p":"디자인/Gaho/다이아몬드/SNS-4.jpg","w":1600,"h":1600},{"p":"디자인/Gaho/다이아몬드/SNS-5.jpg","w":1600,"h":1600},{"p":"디자인/Gaho/다이아몬드/[가호] Diamond 상세이미지 (1000X4498).jpg","w":1000,"h":4498},{"p":"디자인/Gaho/다이아몬드/리릭포스터.jpg","w":1500,"h":2000},{"p":"디자인/Gaho/다이아몬드/앨범커버.jpg","w":680,"h":680},{"p":"디자인/Gaho/다이아몬드/트랙리스트22.jpg","w":1600,"h":1600},{"p":"디자인/Gaho/다이아몬드/폴라포이드1.jpg","w":1500,"h":1500},{"p":"디자인/Gaho/다이아몬드/폴라포이드2.jpg","w":1500,"h":1500},{"p":"디자인/Gaho/다이아몬드/폴라포이드3.jpg","w":1500,"h":1500},{"p":"디자인/Gaho/다이아몬드/폴라포이드4.jpg","w":1500,"h":1500},{"p":"디자인/Gaho/다이아몬드/폴라포이드5.jpg","w":1500,"h":1500},{"p":"디자인/Gaho/온리유/1_02_1.jpg","w":1501,"h":2001},{"p":"디자인/Gaho/온리유/2_02_1.jpg","w":1501,"h":2001},{"p":"디자인/Gaho/온리유/3_02_1.jpg","w":1501,"h":2001},{"p":"디자인/Gaho/온리유/3_02_2.jpg","w":1501,"h":2001},{"p":"디자인/Gaho/온리유/Lyrics-포스터-가로2.jpg","w":1600,"h":1200},{"p":"디자인/Gaho/온리유/MV-스틸컷-커버1-1.jpg","w":1501,"h":2001},{"p":"디자인/Gaho/온리유/MV-스틸컷-커버1-2.jpg","w":1500,"h":2001},{"p":"디자인/Gaho/온리유/MV-스틸컷-커버1-3.jpg","w":1501,"h":2000},{"p":"디자인/Gaho/온리유/MV-스틸컷-커버1-4.jpg","w":1501,"h":2000},{"p":"디자인/Gaho/온리유/MV-스틸컷-커버2-1.jpg","w":1600,"h":1200},{"p":"디자인/Gaho/온리유/MV-스틸컷-커버2-2.jpg","w":1500,"h":2000},{"p":"디자인/Gaho/온리유/MV-스틸컷-커버2-3.jpg","w":1501,"h":2000},{"p":"디자인/Gaho/온리유/MV-스틸컷-커버2-4.jpg","w":1501,"h":2000},{"p":"디자인/Gaho/온리유/MV-스틸컷-커버3-2.jpg","w":1500,"h":2000},{"p":"디자인/Gaho/온리유/MV-스틸컷-커버3-3.jpg","w":1500,"h":2000},{"p":"디자인/Gaho/온리유/MV-스틸컷-커버3-4.jpg","w":1500,"h":2000},{"p":"디자인/Gaho/온리유/MV-스틸컷-커버3-5.jpg","w":1500,"h":2000},{"p":"디자인/Gaho/온리유/[가호] Only You 온라인커버(1500X1500).jpg","w":1500,"h":1500},{"p":"디자인/Gaho/다이아몬드/마플샵 굿즈/다이아몬드 블랙반팔티.jpg","w":1200,"h":1200},{"p":"디자인/Gaho/다이아몬드/마플샵 굿즈/다이아몬드 스택컵.jpg","w":1200,"h":1200},{"p":"디자인/Gaho/다이아몬드/마플샵 굿즈/다이아몬드 키링.jpg","w":1200,"h":1200},{"p":"디자인/Gaho/다이아몬드/마플샵 굿즈/다이아몬드 텀블러.jpg","w":1200,"h":1200},{"p":"디자인/Gaho/다이아몬드/마플샵 굿즈/다이아몬드 패브릭포스터.jpg","w":1200,"h":1200},{"p":"디자인/Gaho/다이아몬드/마플샵 굿즈/다이아몬드 핀버튼.jpg","w":1200,"h":1200},{"p":"디자인/Gaho/다이아몬드/마플샵 굿즈/다이아몬드 하얀반팔티.jpg","w":1200,"h":1200},{"p":"디자인/Gaho/온리유/마플샵 굿즈/온리유 반팔.png","w":1289,"h":1286},{"p":"디자인/Gaho/온리유/마플샵 굿즈/온리유 키링.png","w":1284,"h":1284},{"p":"디자인/Gaho/온리유/마플샵 굿즈/온리유 패브릭.png","w":1284,"h":1289},{"p":"디자인/Gaho/온리유/마플샵 굿즈/온리유 핀버튼.png","w":1286,"h":1289},{"p":"디자인/Gaho/온리유/마플샵 굿즈/온리유 후드티.png","w":1284,"h":1288},{"p":"디자인/ZB1/GoodsoBad 바이럴 이미지1.jpg","w":1080,"h":1920},{"p":"디자인/ZB1/GoodsoBad 바이럴 이미지2.jpg","w":1080,"h":1920},{"p":"디자인/ZB1/GoodsoBad 바이럴 이미지3.png","w":640,"h":100},{"p":"디자인/ZB1/GoodsoBad 바이럴 이미지4.png","w":300,"h":250},{"p":"디자인/ZB1/GoodsoBad 바이럴 이미지5.png","w":1029,"h":258},{"p":"디자인/ZB1/GoodsoBad 바이럴 이미지6.png","w":1200,"h":627},{"p":"디자인/ZB1/GoodsoBad 바이럴 이미지7.png","w":1200,"h":627},{"p":"디자인/ZB1/GoodsoBad 바이럴 이미지8.png","w":1200,"h":627},{"p":"디자인/ZB1/GoodsoBad 쇼케이스 현수막(현장사진)1.jpg","w":1440,"h":1081},{"p":"디자인/ZB1/GoodsoBad 쇼케이스 현수막(현장사진)2.jpg","w":1080,"h":1440},{"p":"디자인/ZB1/GoodsoBad 쇼케이스 현수막(현장사진)3.jpg","w":1080,"h":1440},{"p":"디자인/ZB1/GoodsoBad 쇼케이스 현수막(현장사진)4.jpg","w":1080,"h":1440},{"p":"디자인/ZB1/GoodsoBad 쇼케이스 현수막1.png","w":1492,"h":1973},{"p":"디자인/ZB1/GoodsoBad 쇼케이스 현수막2.png","w":1581,"h":236},{"p":"디자인/ZB1/GoodsoBad 쇼케이스 현수막3.png","w":1587,"h":874},{"p":"디자인/ZB1/GoodsoBad 쇼케이스 현수막4.png","w":700,"h":1882},{"p":"디자인/ZB1/GoodsoBad뮤비조회수축전(20M).jpg","w":1440,"h":1920},{"p":"디자인/ZB1/GoodsoBad뮤비조회수축전(40M).jpg","w":1440,"h":1920},{"p":"디자인/ZB1/GoodsoBad숏터뷰썸네일-건욱.jpg","w":1280,"h":720},{"p":"디자인/ZB1/GoodsoBad숏터뷰썸네일-규빈.jpg","w":1280,"h":720},{"p":"디자인/ZB1/GoodsoBad숏터뷰썸네일-리키.jpg","w":1280,"h":720},{"p":"디자인/ZB1/GoodsoBad숏터뷰썸네일-매튜.jpg","w":1280,"h":720},{"p":"디자인/ZB1/GoodsoBad숏터뷰썸네일-유지태.jpg","w":1280,"h":720},{"p":"디자인/ZB1/GoodsoBad숏터뷰썸네일-유진.jpg","w":1280,"h":720},{"p":"디자인/ZB1/GoodsoBad숏터뷰썸네일-장하오.jpg","w":1280,"h":720},{"p":"디자인/ZB1/GoodsoBad숏터뷰썸네일-지웅.jpg","w":1280,"h":720},{"p":"디자인/ZB1/GoodsoBad숏터뷰썸네일-태래.jpg","w":1280,"h":720},{"p":"디자인/ZB1/GoodsoBad숏터뷰썸네일-한빈.jpg","w":1280,"h":720},{"p":"디자인/ZB1/GoodsoBad활동마무리(웨이보)매튜.jpg","w":1080,"h":1356},{"p":"디자인/ZB1/GoodsoBad활동마무리(웨이보)지웅.jpg","w":1080,"h":1356},{"p":"디자인/ZB1/GoodsoBad활동마무리(웨이보)하오.jpg","w":1080,"h":1356},{"p":"디자인/ZB1/GoodsoBad활동마무리(웨이보)한빈.jpg","w":1080,"h":1356},{"p":"디자인/ZB1/ZB1 미니 4집 팬쇼케이스 라이브 감사 페이지.jpg","w":1600,"h":900},{"p":"디자인/ZB1/ZB1 미니 4집 팬쇼케이스 라이브 대기 페이지.jpg","w":1600,"h":900},{"p":"디자인/ZB1/ZB1 미니 4집 팬쇼케이스 라이브 썸네일.jpg","w":1600,"h":900},{"p":"디자인/ZB1/ZB1-미니-4집-팬쇼케이스-라이브-썸네일-스토리용.jpg","w":1080,"h":1920},{"p":"디자인/ZB1/인스타필터-거니니.png","w":1080,"h":1920},{"p":"디자인/ZB1/인스타필터-태니니.png","w":1080,"h":1920},{"p":"디자인/ZB1/인스타필터-튜니니.png","w":1080,"h":1920},{"p":"디자인/ZB1/인스타필터-하니니(촬영용).jpg","w":1179,"h":2096},{"p":"디자인/ZB1/인스타필터-하니니.png","w":1080,"h":1920},{"p":"디자인/ZB1/지비티빙 롯데월드 자컨 포스터.jpg","w":1080,"h":1920},{"p":"디자인/ZB1/콘서트 SNS 공지1.png","w":1080,"h":1920},{"p":"디자인/ZB1/콘서트 SNS 공지2.png","w":1080,"h":1920},{"p":"디자인/ZB1/콘서트 SNS 공지3.png","w":1080,"h":1920},{"p":"디자인/ZB1/콘서트 SNS 공지4.png","w":1080,"h":1920},{"p":"디자인/기탁/비욘드 콘서트 디자인/Beyond-포스터.jpg","w":1191,"h":1684},{"p":"디자인/기탁/비욘드 콘서트 디자인/LED-송출-코너-안내-이미지-(2816X1024px)-금쪽상담소.jpg","w":1600,"h":582},{"p":"디자인/기탁/비욘드 콘서트 디자인/LED-송출-코너-안내-이미지-(2816X1024px)-기탁퀴즈.jpg","w":1600,"h":582},{"p":"디자인/기탁/비욘드 콘서트 디자인/LED-송출-코너-안내-이미지-(2816X1024px)-딸기마켓.jpg","w":1600,"h":582},{"p":"디자인/기탁/비욘드 콘서트 디자인/LED-송출-코너-안내-이미지-(2816X1024px)-포스터.jpg","w":1600,"h":582},{"p":"디자인/기탁/비욘드 콘서트 디자인/상세이미지(960X5092).jpg","w":960,"h":5128},{"p":"디자인/기탁/비하인드 SNS 이미지/시소 뮤비 비하인드 포스트 이미지 (정방형).jpg","w":1350,"h":1350},{"p":"디자인/기탁/비하인드 SNS 이미지/시소 자켓 비하인드 포스트 이미지 (스토리용).jpg","w":1080,"h":1920},{"p":"디자인/기탁/비하인드 SNS 이미지/썸머 뮤비 포스트-이미지-(정방형).jpg","w":1350,"h":1350},{"p":"디자인/기탁/비하인드 SNS 이미지/썸머 자켓 포스트-이미지-(스토리용).jpg","w":1080,"h":1920},{"p":"디자인/디어유버블/img_bubble_popup_cnema_startsnow.jpg","w":1200,"h":2000},{"p":"디자인/디어유버블/img_bubble_popup_gaho,youchaehoon_startsnow.jpg","w":1200,"h":2000},{"p":"디자인/디어유버블/img_bubble_sns_youchaehoon_startsnow.jpg","w":975,"h":975},{"p":"디자인/라포엠/라포엠100만뷰축전이미지1.png","w":1500,"h":1500},{"p":"디자인/라포엠/라포엠100만뷰축전이미지2.png","w":1500,"h":1500},{"p":"디자인/유채훈/유음세 credit.png","w":1600,"h":3504},{"p":"디자인/유채훈/유음세 썸네일.jpg","w":1600,"h":900},{"p":"디자인/유채훈/비하인드 SNS 이미지/리필콘서트 포스트 이미지 (정방형).jpg","w":1350,"h":1350},{"p":"디자인/유채훈/비하인드 SNS 이미지/유음세 포스트-이미지-(정방형).jpg","w":1350,"h":1350},{"p":"디자인/유채훈/비하인드 SNS 이미지/일몬도비하인드 포스트-이미지-(스토리용).jpg","w":1080,"h":1920},{"p":"디자인/유채훈/비하인드 SNS 이미지/콘텐츠비하인드 포스트-이미지-(스토리용).jpg","w":1080,"h":1920},{"p":"디자인/임시완-팬콘/메인-포스터_상세이미지-(국문)1.jpg","w":750,"h":1578},{"p":"디자인/임시완-팬콘/메인-포스터_상세이미지-(국문)2.jpg","w":750,"h":5114},{"p":"디자인/임시완-팬콘/현수막 시안01.jpg","w":1600,"h":220},{"p":"디자인/정엽x유채훈 ReFeel 콘서트/상세페이지1.jpg","w":750,"h":4730},{"p":"디자인/정엽x유채훈 ReFeel 콘서트/상세페이지2.jpg","w":750,"h":1350},{"p":"디자인/정엽x유채훈 ReFeel 콘서트/포스터.jpg","w":1600,"h":2263},{"p":"디자인/정엽x유채훈 ReFeel 콘서트/현수막.jpg","w":1600,"h":222},{"p":"영상 썸네일/EP.1.jpg","w":1600,"h":900},{"p":"영상 썸네일/Let-It-Snow-썸네일.png","w":1600,"h":900},{"p":"영상 썸네일/[기탁] 2022 크리스마스 캐롤 커버 썸네일.png","w":1600,"h":900},{"p":"디자인/Gaho/온리유/Only You 로고.png","w":900,"h":545},{"p":"디자인/ZB1/GoodsoBad숏터뷰로고디자인.png","w":1600,"h":363},{"p":"디자인/ZB1/지비티빙-롯데월드-자컨-포스터-로고-디자인.png","w":1600,"h":655}];

diff --git a/js/main.js b/js/main.js
@@ -37,7 +37,8 @@ const LINKS = [
   ["디자인/Gaho/온리유/2_02_", "https://www.instagram.com/p/CkvAAuFJk4T/?utm_source=ig_web_copy_link&igsi=MzRlODBiNWFlZA=="],
   ["디자인/Gaho/온리유/3_02_", "https://www.instagram.com/p/CkvAAuFJk4T/?utm_source=ig_web_copy_link&igsi=MzRlODBiNWFlZA=="],
   ["디자인/Gaho/온리유/마플샵 굿즈/", "https://www.instagram.com/p/ClGMccxhVM8/?utm_source=ig_web_copy_link&igsi=MzRlODBiNWFlZA=="],
-  ["Photo/촬영 및 보정/ZB1/", "https://www.instagram.com/p/C_QEaH-pMR5/?utm_source=ig_web_copy_link&igsi=MzRlODBiNWFlZA=="],
+  ["Photo/촬영 및 보정/ZB1/GoodsoBad MV 비하인드", "https://www.instagram.com/p/C_QEaH-pMR5/?utm_source=ig_web_copy_link&igsi=MzRlODBiNWFlZA=="],
+  ["Photo/촬영 및 보정/ZB1/마담피가로 화보 비하인드", "https://www.instagram.com/p/C_QEaH-pMR5/?utm_source=ig_web_copy_link&igsi=MzRlODBiNWFlZA=="],
 ];
 const linkFor = (p) => {
   const hit = LINKS.find(([prefix]) => p.startsWith(prefix));
@@ -160,6 +161,52 @@ function buildMasonry(items, cols) {
   return wrap;
 }
 
+/* ===== GIF-style loop player (영상 촬영 등) ===== */
+function buildLoopPlayer(items) {
+  const wrap = document.createElement("div");
+  wrap.className = "loop-wrap reveal";
+  const player = document.createElement("div");
+  player.className = "loop-player";
+  const imgA = document.createElement("img");
+  const imgB = document.createElement("img");
+  imgA.decoding = imgB.decoding = "async";
+  imgA.alt = imgB.alt = "영상 촬영 미리보기";
+  player.appendChild(imgA);
+  player.appendChild(imgB);
+  const badge = document.createElement("span");
+  badge.className = "badge loop-badge";
+  badge.textContent = "▶ LOOP";
+  player.appendChild(badge);
+  wrap.appendChild(player);
+
+  let idx = 0;
+  let front = imgA;
+  let back = imgB;
+  let timer = null;
+
+  const start = () => {
+    // preload all frames, then cycle
+    const srcs = items.map((m) => encThumb(m.p));
+    srcs.forEach((s) => { const im = new Image(); im.src = s; });
+    front.src = srcs[0];
+    front.classList.add("show");
+    timer = setInterval(() => {
+      idx = (idx + 1) % srcs.length;
+      back.src = srcs[idx];
+      back.classList.add("show");
+      front.classList.remove("show");
+      const t = front; front = back; back = t;
+    }, 1100);
+  };
+  new IntersectionObserver((entries, obs) => {
+    entries.forEach((en) => { if (en.isIntersecting) { start(); obs.disconnect(); } });
+  }, { rootMargin: "400px" }).observe(player);
+
+  player.addEventListener("click", () => openLb(items, idx));
+  revealer.observe(wrap);
+  return wrap;
+}
+
 /* reveal on scroll */
 const revealer = new IntersectionObserver((entries) => {
   entries.forEach((en) => { if (en.isIntersecting) { en.target.classList.add("on"); revealer.unobserve(en.target); } });
@@ -199,7 +246,11 @@ function renderProject(proj, mount) {
     label.className = "subgroup-label";
     label.textContent = key;
     sec.appendChild(label);
-    sec.appendChild(buildMasonry(subs[key].sort(nsort), proj.subCols || proj.cols));
+    if (proj.loopSubs && proj.loopSubs.includes(key)) {
+      sec.appendChild(buildLoopPlayer(subs[key].sort(nsort)));
+    } else {
+      sec.appendChild(buildMasonry(subs[key].sort(nsort), proj.subCols || proj.cols));
+    }
   });
 
   mount.appendChild(sec);
@@ -310,7 +361,8 @@ const PHOTO_PROJECTS = [
     post: "https://m.blog.naver.com/PostView.naver?blogId=moss-music&logNo=223753041787&navType=by" },
   { dir: "Photo/촬영 및 보정/ZB1", title: "ZEROBASEONE — Behind", artist: "Shooting + Retouch", cols: 4,
     desc: "‘GoodsoBad’ MV·마담피가로 화보 현장 스틸 및 영상 촬영, 보정.",
-    order: ["GoodsoBad MV 비하인드", "마담피가로 화보 비하인드"] },
+    order: ["GoodsoBad MV 비하인드", "마담피가로 화보 비하인드"],
+    loopSubs: ["영상 촬영"] },
   { dir: "Photo/사진 보정/ZB1", title: "ZEROBASEONE — Retouch", artist: "Retouch", cols: 4,
     desc: "현장 사진 리터칭 작업." },
   { dir: "Photo/사진 보정/시네마", title: "시네마 — 모비딕 · 청춘콘썰트", artist: "Retouch", cols: 3,

diff --git a/css/style.css b/css/style.css
@@ -56,8 +56,6 @@ a { color: inherit; text-decoration: none; }
   max-width: min(1280px, 92vw);
   max-height: calc(100vh - 170px);
   object-fit: contain;
-  box-shadow: 0 30px 80px rgba(0, 0, 0, 0.5);
-  border-radius: 4px;
 }
 .hero-meta {
   display: flex; align-items: center; gap: 14px;
@@ -192,6 +190,28 @@ a { color: inherit; text-decoration: none; }
   color: var(--ink); backdrop-filter: blur(4px);
 }
 .tile .link-badge { top: auto; bottom: 10px; right: 10px; color: var(--accent); }
+
+/* ===== GIF-style loop player ===== */
+.loop-wrap { display: flex; justify-content: center; }
+.loop-player {
+  position: relative; width: min(360px, 78vw);
+  aspect-ratio: 1179 / 2096;
+  background: #000; border-radius: 18px; overflow: hidden;
+  border: 1px solid var(--hair);
+  cursor: zoom-in;
+}
+.loop-player img {
+  position: absolute; inset: 0; width: 100%; height: 100%;
+  object-fit: cover; object-position: top;
+  opacity: 0; transition: opacity 0.25s ease;
+}
+.loop-player img.show { opacity: 1; }
+.loop-player .loop-badge {
+  position: absolute; top: 12px; right: 12px;
+  font-size: 10px; letter-spacing: 0.2em; padding: 4px 12px;
+  background: rgba(0,0,0,0.55); border: 1px solid var(--hair); border-radius: 999px;
+  backdrop-filter: blur(4px);
+}
 
 /* ===== before / after ===== */
 .ba-grid {

diff --git a/index.html b/index.html
@@ -22,7 +22,7 @@
 </nav>
 
 <header id="top" class="hero">
-  <img class="hero-cover" src="assets/표지.jpg" alt="You Hyunjin — Portfolio 2026">
+  <img class="hero-cover" src="assets/표지.png" alt="You Hyunjin — Portfolio 2026">
   <div class="scroll-hint">SCROLL<span class="line"></span></div>
 </header>
 
